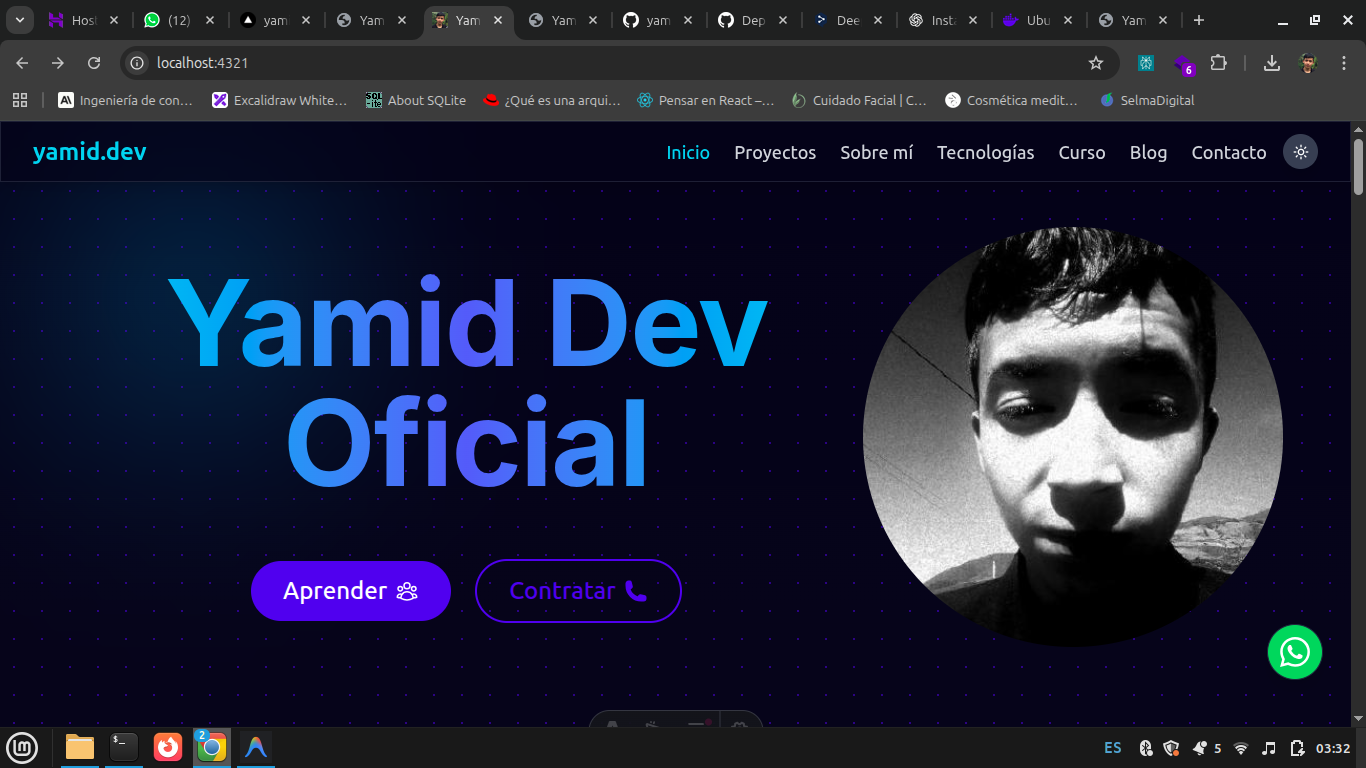
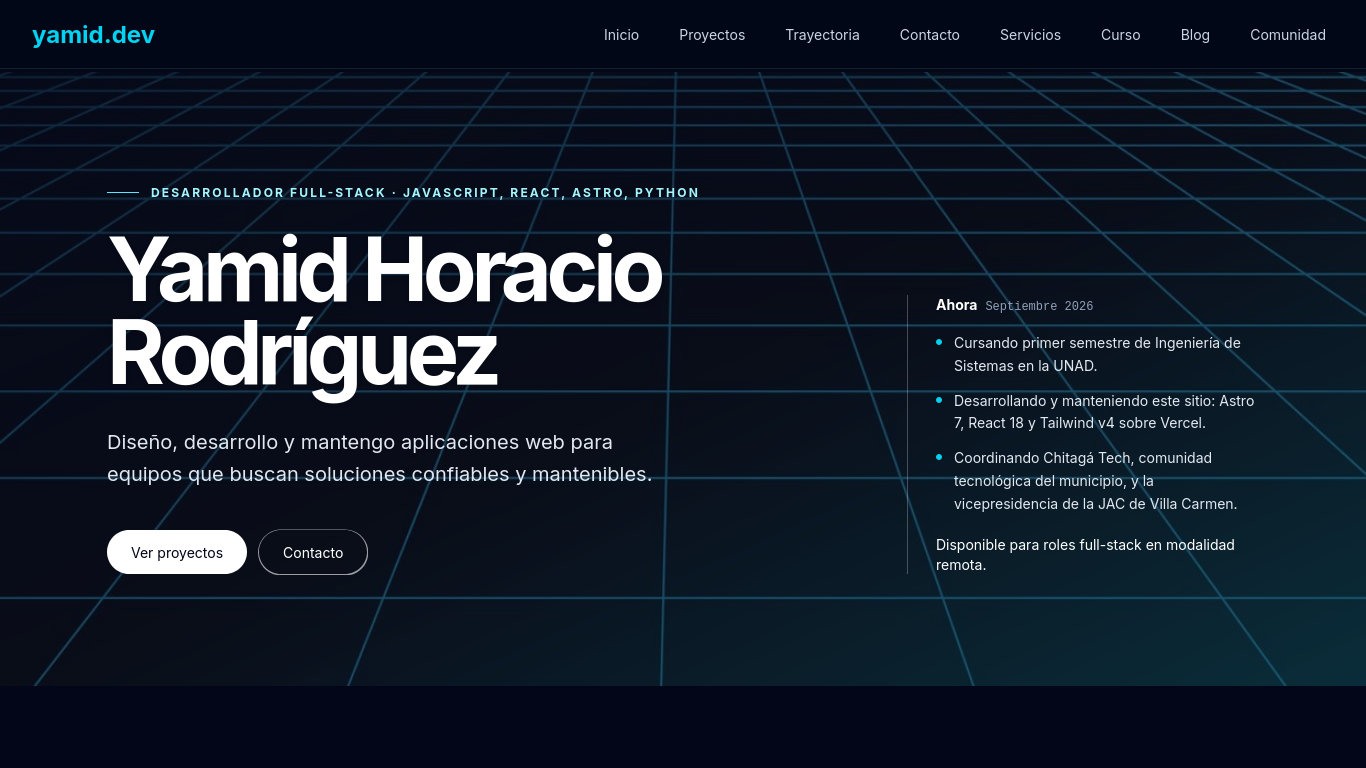
feat: actualizar captura del proyecto yamid.dev
Sustituye las imagenes anteriores por una captura limpia de la web
actual en produccion y sincroniza sus dimensiones declaradas a 1366x768.
Las dos variantes se actualizan porque alimentan Proyectos y Trabajos.

diff --git a/frontend/src/lib/projectData.ts b/frontend/src/lib/projectData.ts
@@ -5,7 +5,7 @@ export const Projects = [
     description: 'Portafolio es un sitio web donde puedes conocer sobre mi experiencia, habilidades, proyectos de desarrollo, y contactarme.',
     techStack: ['Astro', 'React', 'Tailwind'],
     image: ['/images/portfolio.jpg', '/images/portfolio.png'],
-    imageSize: { width: 1365, height: 592 },
+    imageSize: { width: 1366, height: 768 },
     time: 'En desarrollo',
     url: 'https://github.com/yamiddevofic/yamiddev'
   },
